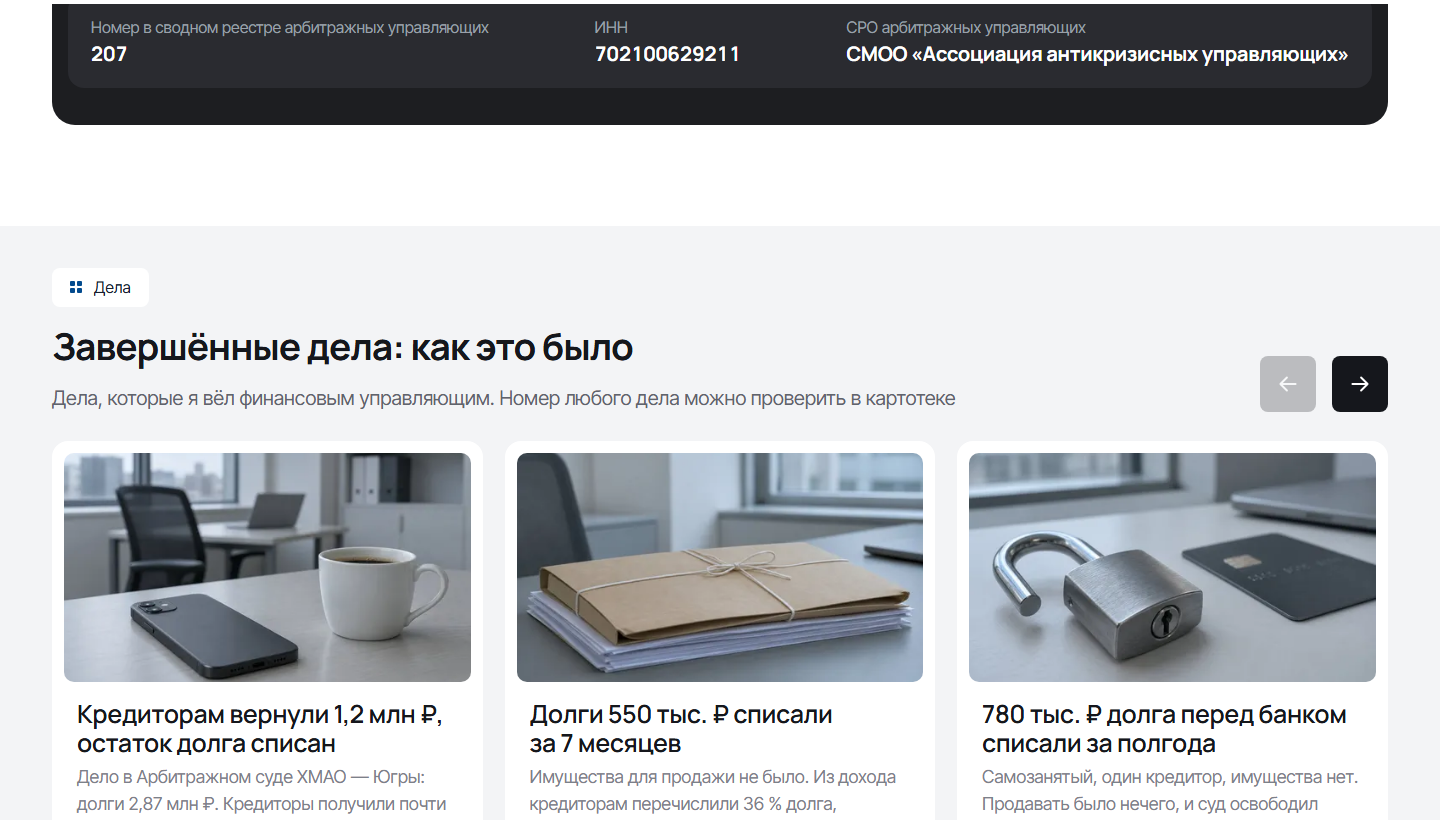
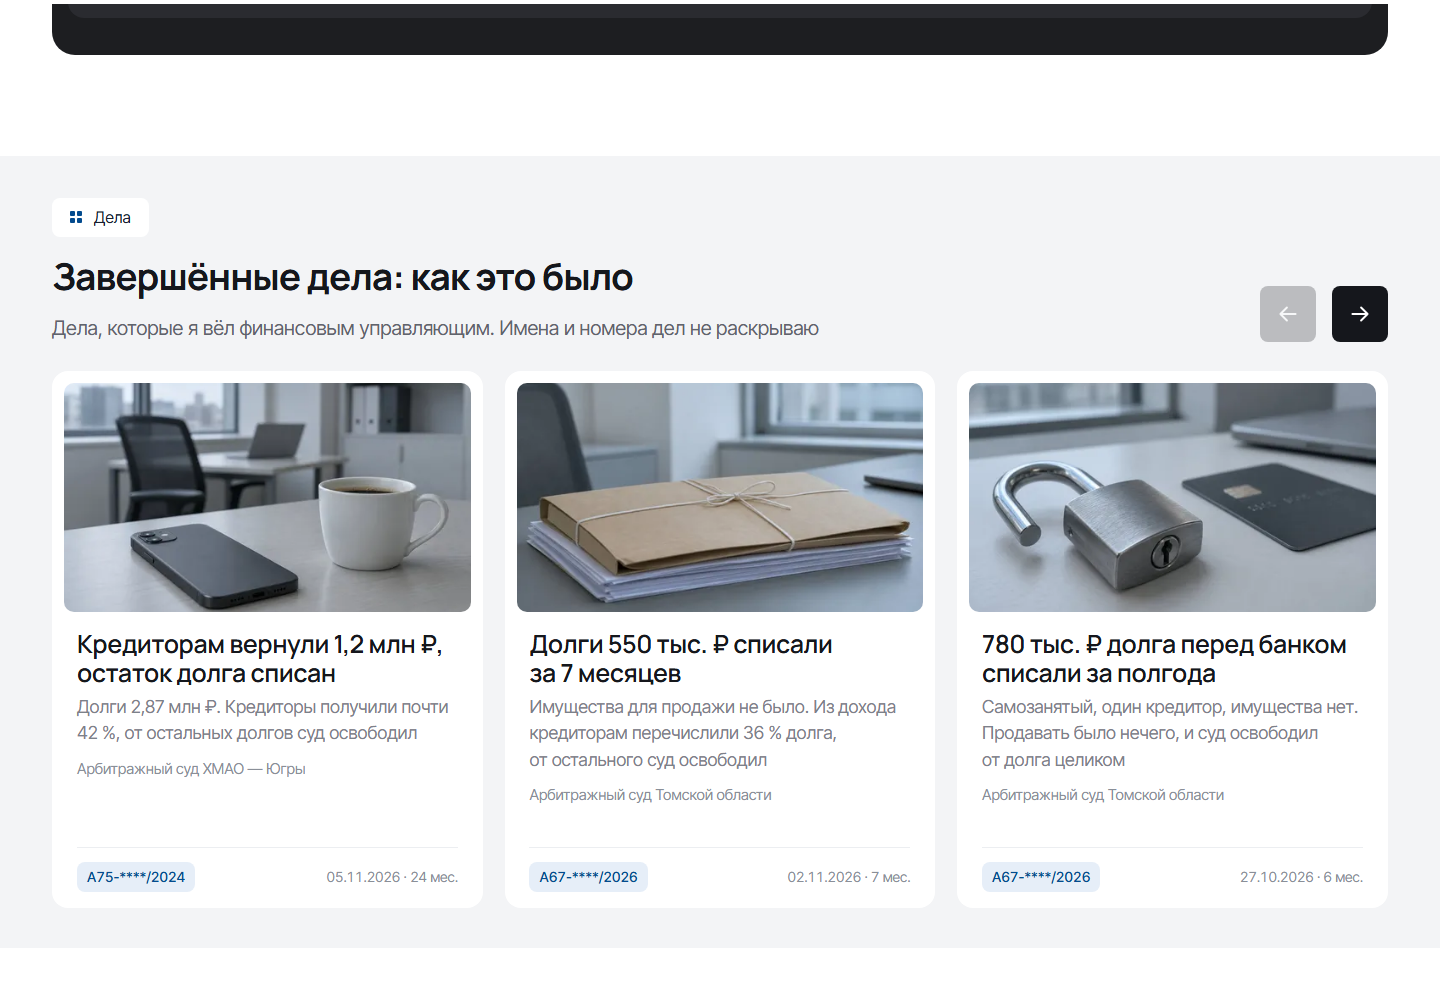
Номера дел замазаны, ссылки на картотеку убраны — не раскрываем клиентов

diff --git a/design/lower/keep-c.html b/design/lower/keep-c.html
@@ -1,0 +1,27 @@
+<!doctype html><html lang="ru"><head><meta charset="utf-8"><link rel="stylesheet" href="common.css"><style>
+body{background:#f3f4f6;padding:88px 0 100px;position:relative}
+.top{display:flex;justify-content:space-between;align-items:flex-end;gap:32px;margin-top:44px}
+.tbl{margin-top:40px;border-radius:18px;background:#fff;overflow:hidden}
+.hd,.row{display:grid;grid-template-columns:260px 1fr 1fr}
+.hd>div{padding:22px 32px;font:600 22px/1.2 Manrope;display:flex;align-items:center;gap:12px}
+.hd .h-k{background:#034b8e;color:#fff}.hd .h-s{background:#15171c;color:#fff}
+.row>div{padding:24px 32px;border-top:1px solid #eceef1;font-size:18px;line-height:1.4;color:#2a2d33}
+.row .kp{background:#f5f8fc}
+.cat{display:flex;align-items:center;gap:14px}.cat b{font:600 20px/1.2 Manrope}
+.ci{display:grid;place-items:center;width:48px;height:48px;border-radius:10px;background:#f3f4f6;color:#15171c;flex:none}
+.kp,.sl{display:flex;gap:12px;align-items:flex-start}
+.mk{display:grid;place-items:center;flex:none;width:28px;height:28px;border-radius:50%;margin-top:-2px}
+.mk.ok{background:#034b8e;color:#fff}.mk.no{background:#e9ebee;color:#15171c}
+.foot{display:flex;justify-content:space-between;align-items:center;gap:24px;margin-top:20px;padding:24px 32px;border-radius:16px;background:#fff}
+.foot p{font-size:18px;line-height:1.45;color:#5f646d}
+</style></head><body><span class="note">Перечень — ст. 446 ГПК РФ</span>
+<div class="wrap"><span class="chip w"><i><b></b><b></b><b></b><b></b></i>Имущество</span>
+<div class="top"><div><h2 class="h2">Что останется, а что могут продать</h2><p class="lead" style="margin-top:14px">Защищённое имущество закон не позволяет продавать, даже если долги большие</p></div></div>
+<div class="tbl"><div class="hd"><div></div><div class="h-k"><svg width="18" height="18" viewBox="0 0 24 24" fill="none" stroke="currentColor" stroke-width="2.4" stroke-linecap="round" stroke-linejoin="round"><path d="M20 6 9 17l-5-5"/></svg> Останется</div><div class="h-s"><svg width="18" height="18" viewBox="0 0 24 24" fill="none" stroke="currentColor" stroke-width="2.2" stroke-linecap="round"><path d="M6 6l12 12M18 6 6 18"/></svg> Могут продать</div></div>
+<div class="row"><div class="cat"><span class="ci"><svg width="26" height="26" viewBox="0 0 24 24" fill="none" stroke="currentColor" stroke-width="1.6" stroke-linecap="round" stroke-linejoin="round"><path d="M3.5 10.5 12 3.5l8.5 7"/><path d="M5.5 9v11h13V9M10 20v-5h4v5"/></svg></span><b>Жильё</b></div><div class="kp"><span class="mk ok"><svg width="18" height="18" viewBox="0 0 24 24" fill="none" stroke="currentColor" stroke-width="2.4" stroke-linecap="round" stroke-linejoin="round"><path d="M20 6 9 17l-5-5"/></svg></span><span>Единственная квартира или дом и земля под ним</span></div><div class="sl"><span class="mk no"><svg width="18" height="18" viewBox="0 0 24 24" fill="none" stroke="currentColor" stroke-width="2.2" stroke-linecap="round"><path d="M6 6l12 12M18 6 6 18"/></svg></span><span>Вторая квартира, дача, гараж, ипотечная квартира — даже если она единственная</span></div></div>
+<div class="row"><div class="cat"><span class="ci"><svg width="26" height="26" viewBox="0 0 24 24" fill="none" stroke="currentColor" stroke-width="1.6" stroke-linecap="round" stroke-linejoin="round"><path d="M5 17h14M6 17l1.5-5h9L18 17M7 17v2M17 17v2"/><circle cx="8" cy="14.5" r=".6"/><circle cx="16" cy="14.5" r=".6"/></svg></span><b>Транспорт</b></div><div class="kp"><span class="mk ok"><svg width="18" height="18" viewBox="0 0 24 24" fill="none" stroke="currentColor" stroke-width="2.4" stroke-linecap="round" stroke-linejoin="round"><path d="M20 6 9 17l-5-5"/></svg></span><span>Машина, необходимая человеку с инвалидностью</span></div><div class="sl"><span class="mk no"><svg width="18" height="18" viewBox="0 0 24 24" fill="none" stroke="currentColor" stroke-width="2.2" stroke-linecap="round"><path d="M6 6l12 12M18 6 6 18"/></svg></span><span>Автомобиль, мотоцикл, лодка</span></div></div>
+<div class="row"><div class="cat"><span class="ci"><svg width="26" height="26" viewBox="0 0 24 24" fill="none" stroke="currentColor" stroke-width="1.6" stroke-linecap="round" stroke-linejoin="round"><rect x="3" y="7" width="18" height="10" rx="2"/><path d="M7 17v2M17 17v2M3 11h18"/></svg></span><b>Вещи</b></div><div class="kp"><span class="mk ok"><svg width="18" height="18" viewBox="0 0 24 24" fill="none" stroke="currentColor" stroke-width="2.4" stroke-linecap="round" stroke-linejoin="round"><path d="M20 6 9 17l-5-5"/></svg></span><span>Мебель, одежда, бытовая техника, личные вещи</span></div><div class="sl"><span class="mk no"><svg width="18" height="18" viewBox="0 0 24 24" fill="none" stroke="currentColor" stroke-width="2.2" stroke-linecap="round"><path d="M6 6l12 12M18 6 6 18"/></svg></span><span>Предметы роскоши, украшения, дорогая техника</span></div></div>
+<div class="row"><div class="cat"><span class="ci"><svg width="26" height="26" viewBox="0 0 24 24" fill="none" stroke="currentColor" stroke-width="1.6" stroke-linecap="round" stroke-linejoin="round"><rect x="2.5" y="6" width="19" height="12" rx="2"/><circle cx="12" cy="12" r="2.5"/></svg></span><b>Деньги</b></div><div class="kp"><span class="mk ok"><svg width="18" height="18" viewBox="0 0 24 24" fill="none" stroke="currentColor" stroke-width="2.4" stroke-linecap="round" stroke-linejoin="round"><path d="M20 6 9 17l-5-5"/></svg></span><span>Прожиточный минимум на вас и детей каждый месяц</span></div><div class="sl"><span class="mk no"><svg width="18" height="18" viewBox="0 0 24 24" fill="none" stroke="currentColor" stroke-width="2.2" stroke-linecap="round"><path d="M6 6l12 12M18 6 6 18"/></svg></span><span>Доход сверх прожиточного минимума — идёт кредиторам</span></div></div>
+<div class="row"><div class="cat"><span class="ci"><svg width="26" height="26" viewBox="0 0 24 24" fill="none" stroke="currentColor" stroke-width="1.6" stroke-linecap="round" stroke-linejoin="round"><rect x="3" y="7" width="18" height="13" rx="2"/><path d="M9 7V5a2 2 0 0 1 2-2h2a2 2 0 0 1 2 2v2"/></svg></span><b>Работа</b></div><div class="kp"><span class="mk ok"><svg width="18" height="18" viewBox="0 0 24 24" fill="none" stroke="currentColor" stroke-width="2.4" stroke-linecap="round" stroke-linejoin="round"><path d="M20 6 9 17l-5-5"/></svg></span><span>Инструменты и оборудование до 100 МРОТ</span></div><div class="sl"><span class="mk no"><svg width="18" height="18" viewBox="0 0 24 24" fill="none" stroke="currentColor" stroke-width="2.2" stroke-linecap="round"><path d="M6 6l12 12M18 6 6 18"/></svg></span><span>Доли в бизнесе и дорогое оборудование</span></div></div>
+</div>
+<div class="foot"><p>Что сохранится именно у вас, разберём до подачи заявления — по документам на имущество и сделкам за 3 года</p><span class="btn">Обсудить мою ситуацию</span></div></div></body></html>

diff --git a/design/lower/keep-d.html b/design/lower/keep-d.html
@@ -1,0 +1,30 @@
+<!doctype html><html lang="ru"><head><meta charset="utf-8"><link rel="stylesheet" href="common.css"><style>
+body{padding:24px 0;position:relative}
+.shell{margin:0 52px;padding:16px;border-radius:24px;background:#f3f4f6}
+.head{display:grid;grid-template-columns:1fr auto;align-items:end;gap:32px;padding:28px 28px 8px}
+.cols{display:grid;grid-template-columns:1fr 1fr;gap:16px;margin-top:24px}
+.c{padding:32px;border-radius:18px;background:#fff}
+.c .tag{display:inline-flex;align-items:center;gap:10px;padding:10px 16px;border-radius:10px;font:600 20px Manrope}
+.c.k .tag{background:#034b8e;color:#fff}.c.s .tag{background:#15171c;color:#fff}
+.c ul{list-style:none;display:grid;gap:4px;margin-top:20px}
+.c li{display:flex;gap:14px;align-items:flex-start;padding:14px 0;border-bottom:1px solid #eceef1;font-size:18px;line-height:1.4;color:#2a2d33}
+.c li:last-child{border-bottom:0}
+.mk{display:grid;place-items:center;flex:none;width:28px;height:28px;border-radius:50%}
+.mk.ok{background:#e6eef8;color:#034b8e}.mk.no{background:#f3f4f6;color:#15171c}
+.big{font:700 44px/1 Manrope;letter-spacing:-.03em}
+.stat{display:flex;gap:16px;align-items:center;margin-top:24px;padding:18px 20px;border-radius:14px}
+.c.k .stat{background:#f5f8fc}.c.s .stat{background:#f3f4f6}
+.stat p{font-size:16px;line-height:1.4;color:#5f646d}
+.warn{display:grid;grid-template-columns:1fr auto;gap:24px;align-items:center;margin-top:16px;padding:26px 32px;border-radius:18px;background:linear-gradient(105deg,#034b8e 0%,#053a6e 55%,#0b1a30 100%);color:#fff}
+.warn b{font:600 22px/1.25 Manrope}.warn p{margin-top:6px;font-size:17px;color:rgb(255 255 255 / .8);line-height:1.45}
+.warn .bt{display:inline-flex;gap:8px;align-items:center;padding:14px 20px;border-radius:10px;background:#fff;color:#15171c;font-weight:500;white-space:nowrap}
+</style></head><body><span class="note" style="top:4px">Перечень — ст. 446 ГПК РФ; пример из дела А67-8334/2025</span>
+<div class="shell">
+<div class="head"><div><span class="chip w"><i><b></b><b></b><b></b><b></b></i>Имущество</span><h2 class="h2" style="margin-top:32px">Что останется, а что могут продать</h2></div><p class="lead" style="max-width:520px">Список защищённого имущества установлен законом. Остальное продают на торгах, деньги идут кредиторам</p></div>
+<div class="cols">
+<div class="c k"><span class="tag"><svg width="18" height="18" viewBox="0 0 24 24" fill="none" stroke="currentColor" stroke-width="2.4" stroke-linecap="round" stroke-linejoin="round"><path d="M20 6 9 17l-5-5"/></svg> Останется</span><ul><li><span class="mk ok"><svg width="18" height="18" viewBox="0 0 24 24" fill="none" stroke="currentColor" stroke-width="2.4" stroke-linecap="round" stroke-linejoin="round"><path d="M20 6 9 17l-5-5"/></svg></span><span>Единственное жильё и земля под ним, если не в ипотеке</span></li><li><span class="mk ok"><svg width="18" height="18" viewBox="0 0 24 24" fill="none" stroke="currentColor" stroke-width="2.4" stroke-linecap="round" stroke-linejoin="round"><path d="M20 6 9 17l-5-5"/></svg></span><span>Мебель, одежда, бытовая техника и личные вещи</span></li><li><span class="mk ok"><svg width="18" height="18" viewBox="0 0 24 24" fill="none" stroke="currentColor" stroke-width="2.4" stroke-linecap="round" stroke-linejoin="round"><path d="M20 6 9 17l-5-5"/></svg></span><span>Прожиточный минимум на вас и детей — каждый месяц</span></li><li><span class="mk ok"><svg width="18" height="18" viewBox="0 0 24 24" fill="none" stroke="currentColor" stroke-width="2.4" stroke-linecap="round" stroke-linejoin="round"><path d="M20 6 9 17l-5-5"/></svg></span><span>Имущество для работы — до 100 МРОТ</span></li><li><span class="mk ok"><svg width="18" height="18" viewBox="0 0 24 24" fill="none" stroke="currentColor" stroke-width="2.4" stroke-linecap="round" stroke-linejoin="round"><path d="M20 6 9 17l-5-5"/></svg></span><span>Транспорт и вещи, необходимые инвалиду</span></li></ul>
+<div class="stat"><span class="big">½</span><p>доли в квартире сохранили как единственное жильё в деле, где списали 17,3 млн ₽</p></div></div>
+<div class="c s"><span class="tag"><svg width="18" height="18" viewBox="0 0 24 24" fill="none" stroke="currentColor" stroke-width="2.2" stroke-linecap="round"><path d="M6 6l12 12M18 6 6 18"/></svg> Могут продать</span><ul><li><span class="mk no"><svg width="18" height="18" viewBox="0 0 24 24" fill="none" stroke="currentColor" stroke-width="2.2" stroke-linecap="round"><path d="M6 6l12 12M18 6 6 18"/></svg></span><span>Автомобиль</span></li><li><span class="mk no"><svg width="18" height="18" viewBox="0 0 24 24" fill="none" stroke="currentColor" stroke-width="2.2" stroke-linecap="round"><path d="M6 6l12 12M18 6 6 18"/></svg></span><span>Вторую квартиру, дачу, гараж, участок</span></li><li><span class="mk no"><svg width="18" height="18" viewBox="0 0 24 24" fill="none" stroke="currentColor" stroke-width="2.2" stroke-linecap="round"><path d="M6 6l12 12M18 6 6 18"/></svg></span><span>Доли в недвижимости и в бизнесе</span></li><li><span class="mk no"><svg width="18" height="18" viewBox="0 0 24 24" fill="none" stroke="currentColor" stroke-width="2.2" stroke-linecap="round"><path d="M6 6l12 12M18 6 6 18"/></svg></span><span>Ипотечную квартиру — даже если она единственная</span></li><li><span class="mk no"><svg width="18" height="18" viewBox="0 0 24 24" fill="none" stroke="currentColor" stroke-width="2.2" stroke-linecap="round"><path d="M6 6l12 12M18 6 6 18"/></svg></span><span>Дорогие вещи и украшения</span></li></ul>
+<div class="stat"><span class="big">7&nbsp;%</span><p>от выручки получает финансовый управляющий, если имущество продают</p></div></div></div>
+<div class="warn"><div><b>Что сохранится именно у вас — скажу до подачи заявления</b><p>Разберём документы на имущество и сделки за последние 3 года на бесплатной консультации</p></div><span class="bt">Обсудить мою ситуацию <svg width="20" height="20" viewBox="0 0 24 24" fill="none" stroke="currentColor" stroke-width="1.8" stroke-linecap="round" stroke-linejoin="round"><path d="M5 12h14M13 6l6 6-6 6"/></svg></span></div>
+</div></body></html>

diff --git a/src/data/site.ts b/src/data/site.ts
@@ -108,6 +108,14 @@ export const cases: CaseItem[] = [
 
 export const KAD_URL = 'https://kad.arbitr.ru/';
 
+/**
+ * Номер дела на сайте показываем замазанным (звёздочки вместо цифр перед годом). По полному номеру в картотеке
+ * видно ФИО должника, а рядом наши истории с деталями — не раскрываем клиентов без их согласия (решение 18.11.2026).
+ */
+export const maskCase = (n: string) => n.replace(/^([А-ЯA-Z]\d{2})\s*[-–]\s*\d+\//, '$1-****/');
+/** Суд по коду номера дела */
+export const courtOf = (n: string) => (n.startsWith('А75') ? 'Арбитражный суд ХМАО — Югры' : 'Арбитражный суд Томской области');
+
 export type NavItem = { href: string; label: string };
 
 export const services: (NavItem & { lead: string })[] = [
@@ -292,7 +300,7 @@ export const recentCases: RecentCase[] = [
     text: 'Имущества не было, продавать нечего. Суд освободил от долгов перед тремя банками и налоговой' },
   { number: 'А75-18552/2024', finished: '2026-11-05', debtor: 'гражданин', months: 24, img: 'phone', featured: true,
     title: 'Кредиторам вернули 1,2 млн ₽, остаток долга списан',
-    text: 'Дело в Арбитражном суде ХМАО — Югры: долги 2,87 млн ₽. Кредиторы получили почти 42 %, от остальных долгов суд освободил' },
+    text: 'Долги 2,87 млн ₽. Кредиторы получили почти 42 %, от остальных долгов суд освободил' },
   { number: 'А67-1437/2026', finished: '2026-11-02', debtor: 'гражданин', months: 7, img: 'folder', featured: true,
     title: 'Долги 550 тыс. ₽ списали за 7 месяцев',
     text: 'Имущества для продажи не было. Из дохода кредиторам перечислили 36 % долга, от остального суд освободил' },

diff --git a/seo/decisions.md b/seo/decisions.md
@@ -38,3 +38,4 @@
 | 18.11.2026 | Отзывы: основной источник — 2ГИС (5,0, 19 отзывов), собраны в src/data/reviews.ts дословно, имена «Имя Ф.»; Яндекс Карты — 1 отзыв, рейтинг не выводим | Дизайнер дала ссылку 2ГИС | Заглушки | высокая |
 | 18.11.2026 | Блок отзывов HomeReviews после кейсов: 6 отзывов 2ГИС с темой-плашкой, заметная плашка оценки, белый фон с серыми карточками. «Обо мне» на телефоне: чёрная рамка возвращена, поля 12 px — заголовок 4 строки на 390+ (5 на 375) | Просьба дизайнера | — | высокая |
 | 18.11.2026 | Порядок главной: Первый экран → Для кого → Услуги → Этапы → Стоимость → Обо мне → Дела → Отзывы → Квиз → (Кому не подходит, Что сохранится, FAQ — по макетам) → Заявка. Цена поднята, квиз перенесён, чтобы два синих градиента не стояли рядом | Решение дизайнера | — | высокая |
+| 18.11.2026 | Номера дел на сайте замазаны «А67-****/2026» (maskCase в site.ts), ссылки «Проверить в картотеке» убраны; вместо них — название суда. Причина: по полному номеру в картотеке видно ФИО, рядом истории с деталями. Вернуть полные номера — после согласия клиентов/решения Антонца | Решение дизайнера | Полные номера | высокая |
